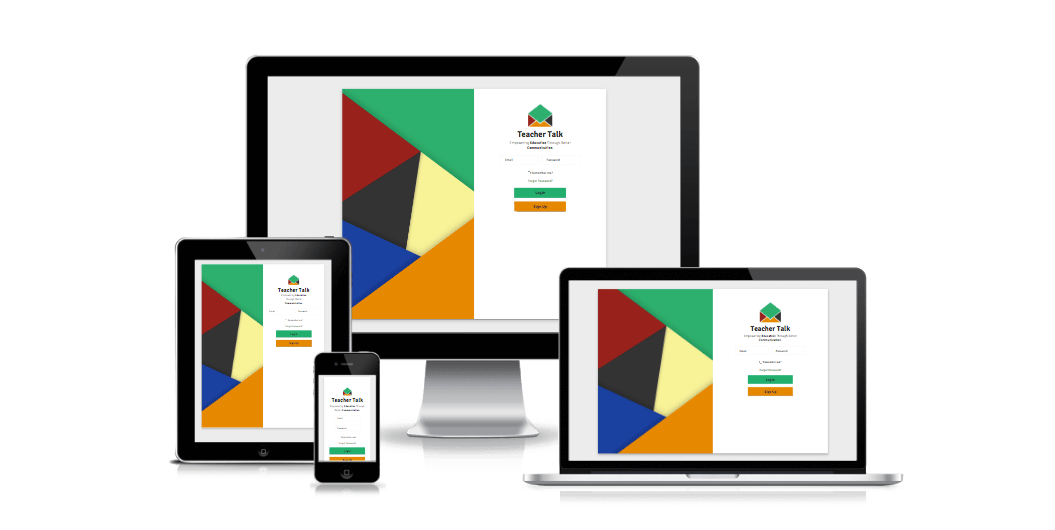
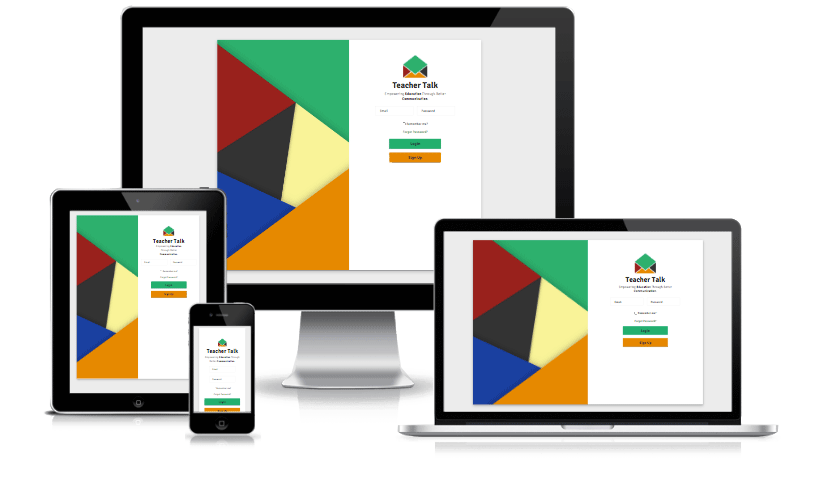
updated teacher talk content

diff --git a/teachertalk.html b/teachertalk.html
@@ -48,7 +48,7 @@
         <a href="http://teachertalk.herokuapp.com/" target="_blank">Live Site</a>
         <a class="horizontal-bar">&nbsp;|&nbsp;</a>
         <a href="https://github.com/Forest-Newark/Teacher-Talk" target="_blank">View Code</a>
-        <p>I collaborated with a development team of three Java back end developers to create a messaging system streamlining the parent-teacher communication by providing multi-language templates sending either an email or text to the parent.</p>
+        <p>I collaborated with a team of three Java back end developers to create a messaging system streamlining the parent-teacher communication by providing multi-language templates sending either an email or text to the parent.</p>
         <img id="multiple-devices" src="images/tt/devices-tt.png" alt="Teacher Talk Shown on all Devices">
       </div>
 
@@ -89,15 +89,17 @@
       <div class="redesign-goal">
         <h2>Goal of Project - MVP</h2>
         <p>Have a registration for parents and teachers. The information they entered would be stored in a database on the backend. The teacher would be able to login select multiple students and send a templated email.</p>
+        <h2>Finished Project</h2>
+        <p>We completed our MVP in just over a week. With the remaining week we added a forgot password feature. Parents could select english and spanish. The back end stored this and if they did select spanish option the email would have a spanish translation when it arrived in the parent's inbox. We incorporated a history log. The teacher is able to go in and sort through all the messages they have sent and see when it went, to who it was sent and what the message pertained. Lastly we added functionality for the teacher to add students, templates and update their information while logged on. </p>
       </div>
       <hr>
 
       <div class="challenges">
         <h2>Challenges/Problems Solved</h2>
-        <p>Being the only Front End Designer and Developer it required constant communication between myself and the back end. I had to make sure I was communicating effectively enough so that we could set realistic goals. The functionality for our MVP was completed by the end of week one. From there the back end implimented a history log and forgot / reset password link. </p>
-        <p>As a designer my first goal was creating a logo once the logo was agreed upon I would form a branding style around the logo. As you can see it took dozens of iteriations before we agreed that the envelope was the most effective and concise way to communicate to our users what exactly was this tool. </p>
-        <p>The majority of our application was input fields. Because of this I wanted to display the labels in an unique way. I added a focus state to the input field that when a user clicked into it the label would transform up creating a nice soft UI feel. I soon realized that I needed to use JavaScript to read the input fields. If it had a length then the label needed to stay transformed up so that it wouldn't cover the content. </p>
-        <p>Another challenge I came across was styling the content for the message portal. In my mockups I had the header being a standard horizontal header 100px tall. The message area would mirror gmail in that the teacher searches for students selects a template and then it sends. When I started coding this out I realized the design was not working with the space. I went back to the beginning started brainstorming researching and looking at dribbble when I came up with another idea. I moved the navigation to the side. This took up more room and the message area no longer felt like it was awkwardly sticking out.
+        <p>Being the only Front End Designer and Developer it required constant communication between myself and the back end. I had to make sure I was communicating effectively enough so that we were setting realistic goals. I'm really proud of the team I worked with when I think of how many feautres we were able to implement.</p>
+        <p>As a designer my first goal was creating a logo once the logo was agreed upon I would form a branding style around the logo. As you can see it took dozens of iteriations before we agreed that the envelope was the most effective and concise way to communicate to our users what Teacher Talk was. </p>
+        <p>The majority of our application was input fields. Because of this I wanted to display the labels in an unique way. I added a focus state to the input field that when a user clicked into it the label would transform up creating a nice soft UI feel. I soon realized that I needed to use JavaScript to read the input fields. If it had a length then the label needed to stay transformed up so that it wouldn't cover the content. My team was a huge help in thinking through the logic. </p>
+        <p>Another challenge I came across was styling the content for the message portal. In my mockups I had the header being a standard horizontal header 100px tall. The message area would mirror gmail in that the teacher searches for students selects a template and then it sends. When I started coding this out I realized the design was not working with the space. I went back to the beginning, started brainstorming researching and looking at dribbble when I came up with another idea. I moved the navigation to the side. This took up more room and the message area no longer felt like it was awkwardly sticking out. This also made a toggle menu work smoothly allowing the teacher to add students, templates and update their information without ever having to leave the page.</p>
       </div>
       <hr>
 

diff --git a/about.html b/about.html
@@ -63,7 +63,7 @@
         <p> &bull; CSS3 &bull; (Fundamental) JS and jQuery &bull; Git/Gibhub &bull; HTML5  &bull;Illustrator &bull; InDesign &bull; inVision &bull; Photoshop &bull; Responsive Web Design &bull; Skeleton &bull; SASS &bull; Sketch &bull; UI Design</p>
 
         <h2>Working On</h2>
-        <p> &bull; Design Thinking &bull; JS and jQuery &bull; Wordpress</p>
+        <p> &bull; Design Thinking &bull; JS and jQuery &bull; WordPress</p>
       </div>
 
       <hr>

diff --git a/css/style.css b/css/style.css
@@ -462,7 +462,7 @@
   .logo-images img:nth-of-type(2) {
     width: 30%;
     float: left;
-    margin-right: 3%; }
+    margin-left: 3%; }
 
 .tt-images {
   display: flex;

diff --git a/css/partials/_teachertalk.scss b/css/partials/_teachertalk.scss
@@ -18,7 +18,7 @@
   img:nth-of-type(2){
     width: 30%;
     float: left;
-    margin-right: 3%;
+    margin-left: 3%;
   }
 }
 
